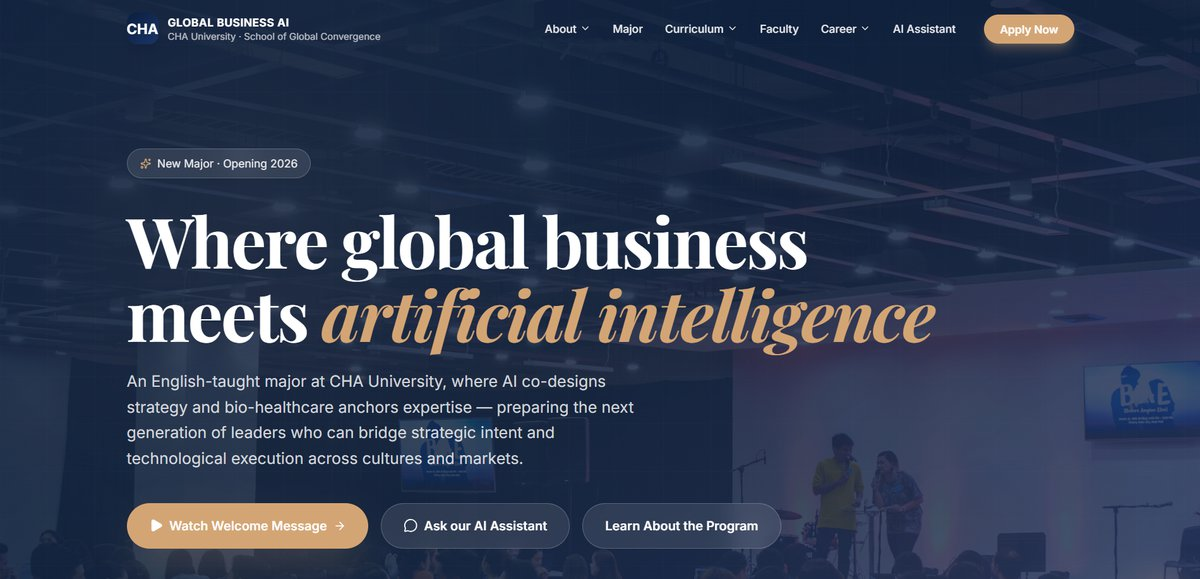
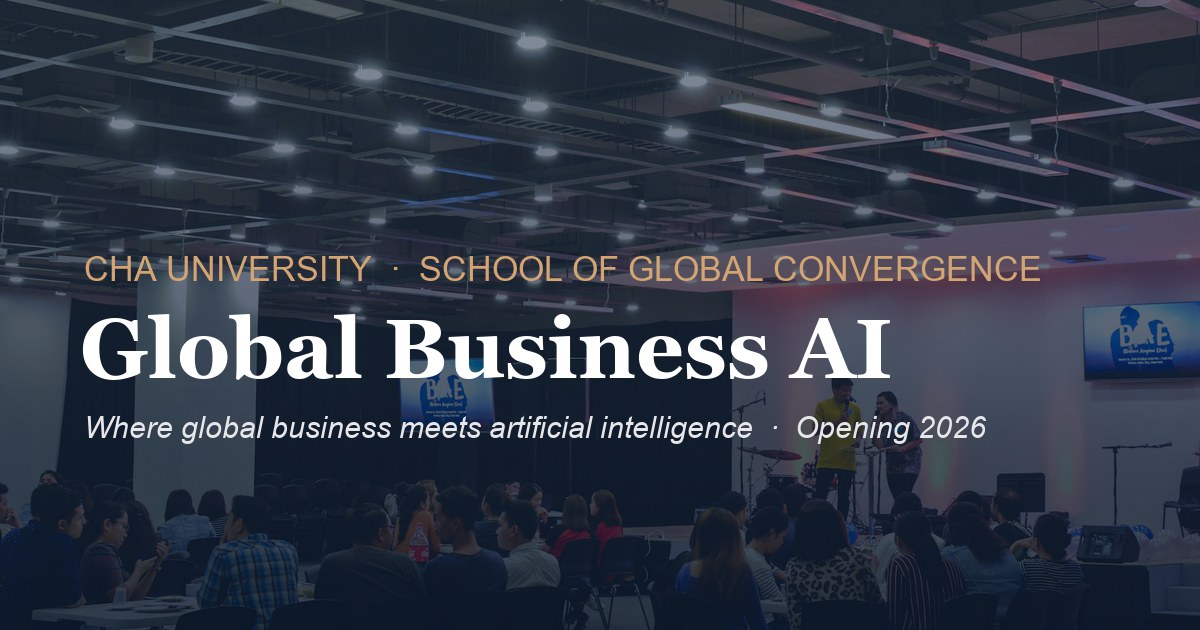
style(og): conference-hall thumbnail with program title overlay
홈 스크린샷 대신 컨퍼런스 회의장 배경 + navy 오버레이 + 학과명 텍스트
오버레이로 OG 썸네일 재제작 (1200x630).

diff --git a/index.html b/index.html
@@ -15,7 +15,7 @@
     <meta property="og:description" content="Where global business meets artificial intelligence — an English-taught major at CHA University, opening 2026." />
     <meta property="og:image" content="https://cha-globalbiz-ai-bot.vercel.app/og-image.jpg" />
     <meta property="og:image:width" content="1200" />
-    <meta property="og:image:height" content="579" />
+    <meta property="og:image:height" content="630" />
     <!-- Twitter Card -->
     <meta name="twitter:card" content="summary_large_image" />
     <meta name="twitter:title" content="Global Business AI · CHA University" />
